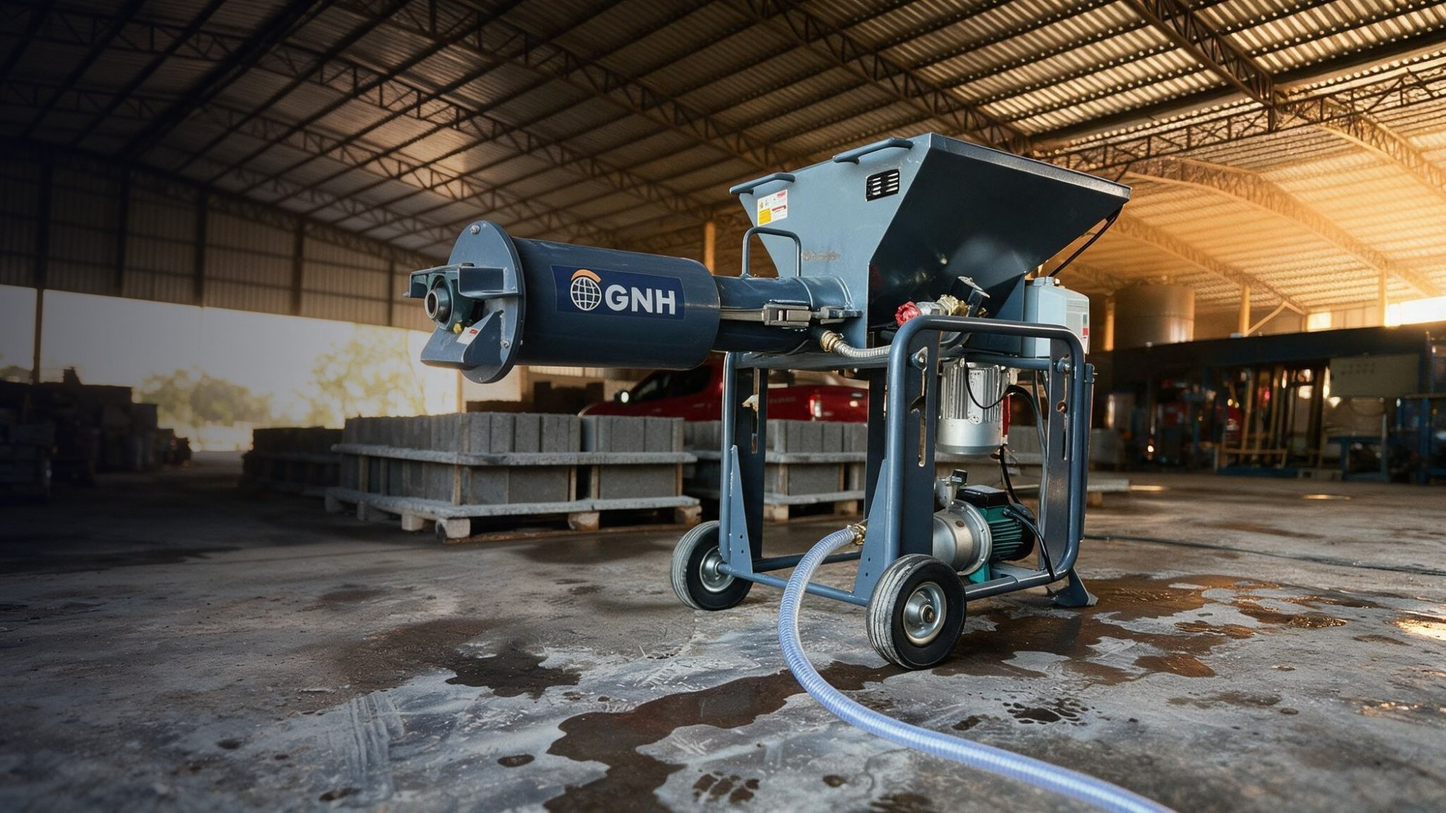
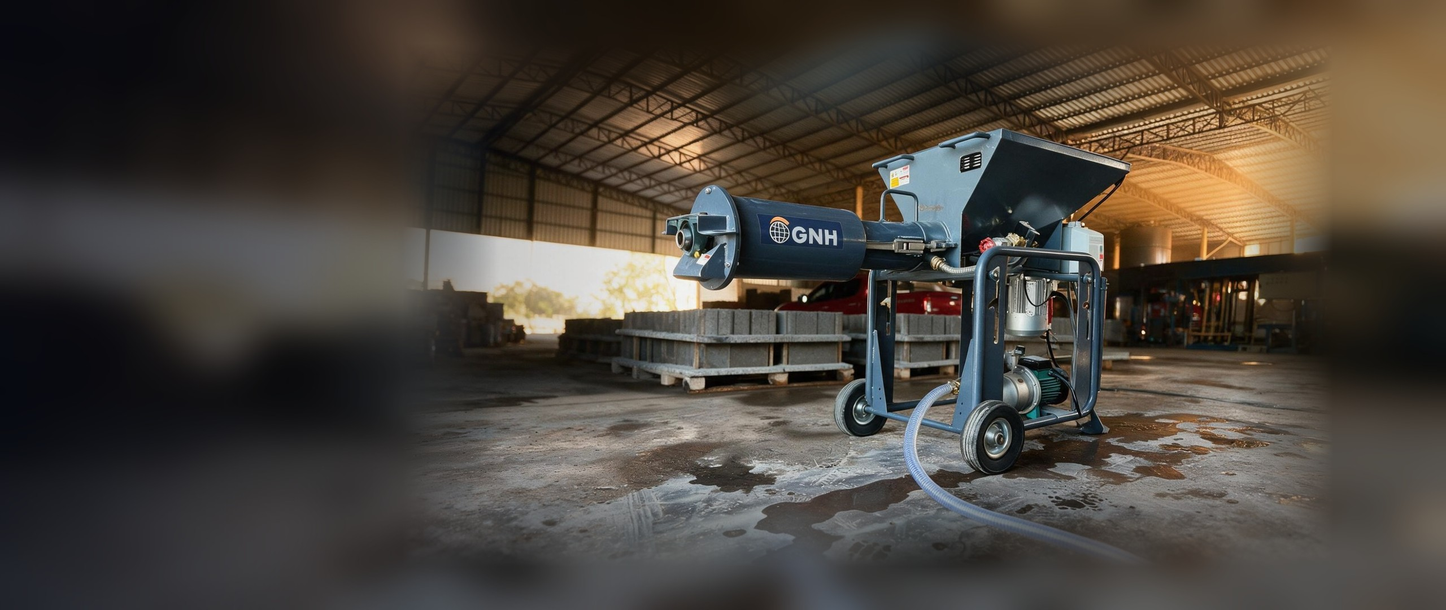
Ventas hero: corrige recorte superior en Mini Central, Mezcladora y Grúa
Reprocesa a 2560x1080 con producto completo (~86% de altura) y holgura
arriba/abajo, igual que Plataformas/Minibomba, para que el banner alto no
corte el borde superior. Grúa pasa a grua-arana-banner.jpg.

Claude-Session: https://claude.ai/code/session_01G6q8F1fihbpsjB4wc9tjuD

diff --git a/assets/nuevo/assets/ventas-D0vWhEj0.js b/assets/nuevo/assets/ventas-D0vWhEj0.js
@@ -50,7 +50,7 @@ import"./style-Cs5EtRwa.js";const c={instagram:"https://www.instagram.com/gnhimp
       <div class="border-t border-white/10 py-6 text-center text-xs text-white/40">
         © {year} Grupo GNH — Reservados todos los derechos · Paraguay · Brasil
       </div>
-    </footer>`,r.innerHTML=r.innerHTML.replace("{year}",String(new Date().getFullYear()));const a=document.createElement("a");a.href=c.whatsapp,a.target="_blank",a.rel="noopener",a.setAttribute("aria-label","WhatsApp"),a.className="wa-float",a.innerHTML=I,document.body.appendChild(a)}const T='<svg viewBox="0 0 24 24" fill="currentColor"><path d="M12 2.2c3.2 0 3.6 0 4.9.07 1.17.05 1.8.25 2.23.41.56.22.96.48 1.38.9.42.42.68.82.9 1.38.16.42.36 1.06.41 2.23.06 1.27.07 1.65.07 4.85s0 3.58-.07 4.85c-.05 1.17-.25 1.8-.41 2.23-.22.56-.48.96-.9 1.38-.42.42-.82.68-1.38.9-.42.16-1.06.36-2.23.41-1.27.06-1.65.07-4.85.07s-3.58 0-4.85-.07c-1.17-.05-1.8-.25-2.23-.41a3.7 3.7 0 0 1-1.38-.9 3.7 3.7 0 0 1-.9-1.38c-.16-.42-.36-1.06-.41-2.23C2.2 15.58 2.2 15.2 2.2 12s0-3.58.07-4.85c.05-1.17.25-1.8.41-2.23.22-.56.48-.96.9-1.38.42-.42.82-.68 1.38-.9.42-.16 1.06-.36 2.23-.41C8.42 2.2 8.8 2.2 12 2.2m0 1.8c-3.15 0-3.5 0-4.7.07-.9.04-1.4.2-1.72.32-.43.17-.74.37-1.06.7-.32.32-.52.63-.7 1.06-.12.32-.28.82-.32 1.72C3.2 8.5 3.2 8.85 3.2 12s0 3.5.07 4.7c.04.9.2 1.4.32 1.72.17.43.37.74.7 1.06.32.32.63.52 1.06.7.32.12.82.28 1.72.32 1.2.06 1.55.07 4.7.07s3.5 0 4.7-.07c.9-.04 1.4-.2 1.72-.32.43-.17.74-.37 1.06-.7.32-.32.52-.63.7-1.06.12-.32.28-.82.32-1.72.06-1.2.07-1.55.07-4.7s0-3.5-.07-4.7c-.04-.9-.2-1.4-.32-1.72a2.9 2.9 0 0 0-.7-1.06 2.9 2.9 0 0 0-1.06-.7c-.32-.12-.82-.28-1.72-.32C15.5 4 15.15 4 12 4m0 3.06A4.94 4.94 0 1 1 12 16.94 4.94 4.94 0 0 1 12 7.06m0 1.8a3.14 3.14 0 1 0 0 6.28 3.14 3.14 0 0 0 0-6.28m5.14-.9a1.15 1.15 0 1 1 0 2.3 1.15 1.15 0 0 1 0-2.3"/></svg>',H='<svg viewBox="0 0 24 24" fill="currentColor"><path d="M14 8h3V4h-3a4.5 4.5 0 0 0-4.5 4.5V11H7v4h2.5v7h4v-7H17l.7-4h-4.2V8.8A.8.8 0 0 1 14 8z"/></svg>',z='<svg viewBox="0 0 24 24" fill="currentColor"><path d="M16.5 3c.3 2 1.6 3.6 3.5 3.9v2.4c-1.3.1-2.6-.3-3.7-1v5.9a5.6 5.6 0 1 1-5.6-5.6c.3 0 .5 0 .8.05v2.5a3.1 3.1 0 1 0 2.2 3V3z"/></svg>',I='<svg viewBox="0 0 24 24" fill="#fff"><path d="M12 2a10 10 0 0 0-8.6 15.1L2 22l5-1.3A10 10 0 1 0 12 2zm5 13.7c-.2.6-1.2 1.2-1.7 1.2-.4.1-1 .1-1.6-.1a13 13 0 0 1-5.9-5.2c-.7-1.1-1.1-2.4-.6-3.1.2-.4.6-.6 1-.6h.7c.2 0 .5-.1.7.5l1 2.3c.1.2 0 .4-.1.6l-.5.7c-.2.2-.3.4-.1.7a9.6 9.6 0 0 0 3.6 3.2c.3.1.5.1.7-.1l.8-1c.2-.3.4-.2.7-.1l2.2 1c.2.1.4.2.4.4 0 .1 0 .8-.3 1.6z"/></svg>',E="595985311031",L=e=>`https://wa.me/${E}?text=${encodeURIComponent(e)}`,v=[{id:"equipos",title:"Equipos",icon:"gear",blurb:"Reglas láser, bombas de concreto, allanadoras, grúas, generadores y más.",groups:[{title:"Construcción",products:[{name:"Regla Láser Vibratoria WS940",img:"../img/prod/ws940.png",note:"Nivelación láser de pisos de concreto de alta precisión."},{name:"Bomba Transportadora de Concreto",img:"../img/prod/bomba-cemento.png",note:"Bombeo y transporte de concreto con caudal estable y operación continua."},{name:"Allanadora de Concreto 1 m",img:"../img/prod/allanadora.png",note:"Alisado y pulido de pisos de concreto. Ancho de trabajo de 1 metro."},{name:"Cortadora de Piso",img:"../img/prod/cortadora.png",note:"Corte de juntas en concreto y asfalto con disco diamantado."},{name:"Máquina de Marcado Vial",img:"../img/prod/marcado.png",note:"Marcación de pavimentos y viales con pintura de alto rendimiento."},{name:"Central de Concreto JBTS20",img:"../img/prod/central-concreto.png",note:"Mezcladora y bomba de concreto sobre remolque. Equipada con motor Cummins, para producción y bombeo continuo en obra."}]},{title:"Movimentación",products:[{name:"Grúa Araña",brand:"GNH",img:"../img/prod/grua-arana.png",note:"Grúas araña de orugas de 1,5 t a 70 t de capacidad. Control remoto e indicador de par incluidos. Brazo extensor y cesto opcionales."},{name:"Mini Excavadora HT15",img:"../img/prod/excavadora.png",note:"Miniexcavadora de orugas con motor Kubota. Balanceo lateral del brazo, cabina y aire acondicionado opcionales."},{name:"Camión Volquete de Orugas",img:"../img/prod/volquete.png",note:"Dumper de orugas para transporte de materiales en obra. Capacidades de 0,5 t y 1,2 t; versión giratoria con motor diésel."},{name:"Carretilla Elevadora Diésel 3,5 t",img:"../img/prod/carretilla.png",note:"Montacargas diésel, capacidad 3,5 t y elevación de 3 m. Dispositivo rotatorio opcional."},{name:"Montacargas Todoterreno 3,5 t",img:"../img/prod/montacargas.png",note:"Montacargas todoterreno 3,5 t para superficies difíciles."},{name:"Apilador Eléctrico",img:"../img/prod/apilador.png",note:"Apiladores eléctricos — capacidades de 1 a 2 t y alturas de 1,6 a 4,5 m."},{name:"Elevador de Dos Columnas",img:"../img/prod/elevador.png",note:"Plataforma de elevación de personal de dos mástiles, uso industrial."}]},{title:"Industria",products:[{name:"Ensayo a Compresión HST-YES2000",img:"../img/prod/compresion.png",note:"Prensa digital para ensayos de resistencia a la compresión. Control de calidad."},{name:"Motor Diésel 4HZD",img:"../img/prod/motor.png",note:"Motor diésel industrial de alto desempeño para generación y usos estacionarios."},{name:"Grupo Electrógeno Diésel 38 kVA",img:"../img/prod/generador.png",note:"Generador trifásico 400 V / 50 Hz, cabina súper silenciosa."}]}]},{id:"aditivos",title:"Aditivos",icon:"flask",blurb:"Aditivos y soluciones químicas para construcción.",products:[]},{id:"fletes",title:"Fletes",icon:"truck",blurb:"Transporte y fletes de carga con cobertura regional.",products:[{name:"Transporte de Cargas",brand:"FletePar",note:"Fletes con cobertura regional y trazabilidad total, del origen al destino."}]},{id:"morteros",title:"Morteros",icon:"grid",blurb:"Revoques y morteros industrializados.",products:[]},{id:"cementos",title:"Cementos",icon:"layers",blurb:"Cemento de alto desempeño para toda obra.",products:[]}],B={hook:'<path d="M5 21V5.5L11 3v18M5 21h6M11 7h8.5M19.5 7v4.5"/><path d="M21.5 14a2.2 2.2 0 1 1-4.4 0"/>',flask:'<path d="M10 3h4M11 3v5.2L5.6 17.5A2 2 0 0 0 7.4 21h9.2a2 2 0 0 0 1.8-3.5L13 8.2V3"/><path d="M8.2 15h7.6"/>',truck:'<path d="M3 7h11v9H3zM14 10h4l3 3v3h-7"/><circle cx="7" cy="17.5" r="1.8"/><circle cx="17" cy="17.5" r="1.8"/>',layers:'<path d="M12 3l9 5-9 5-9-5z"/><path d="M3 13.5l9 5 9-5"/>',grid:'<rect x="4" y="4" width="7" height="7" rx="1"/><rect x="13" y="4" width="7" height="7" rx="1"/><rect x="4" y="13" width="7" height="7" rx="1"/><rect x="13" y="13" width="7" height="7" rx="1"/>',arrow:'<path d="M4 12h15M13 6l6 6-6 6"/>',doc:'<path d="M14 3H7a2 2 0 0 0-2 2v14a2 2 0 0 0 2 2h10a2 2 0 0 0 2-2V8z"/><path d="M14 3v5h5M9 13h6M9 17h6"/>',gear:'<circle cx="12" cy="12" r="3.2"/><path d="M12 2.5v3M12 18.5v3M2.5 12h3M18.5 12h3M5 5l2.1 2.1M16.9 16.9L19 19M19 5l-2.1 2.1M7.1 16.9L5 19"/>',chevL:'<path d="M15 5l-7 7 7 7"/>',chevR:'<path d="M9 5l7 7-7 7"/>'},l=(e,r="")=>`<svg viewBox="0 0 24 24" fill="none" stroke="currentColor" stroke-width="1.7" stroke-linecap="round" stroke-linejoin="round" class="${r}">${B[e]??""}</svg>`,p=[{name:"Plataformas",tag:"Plataforma electro-hidráulica de elevación de personal para trabajos en altura.",img:"../img/prod/plataformas.jpg",cat:"equipos",bleed:!0},{name:"Grúas Araña",tag:"Grúas araña de orugas de 1,5 t a 70 t. Compactas, potentes y de fácil acceso.",img:"../img/prod/grua-arana.png",cat:"equipos",bleed:!0},{name:"Mini Central de Concreto",tag:"Mezcla y bombeo de concreto en un solo equipo, con motor Cummins.",img:"../img/prod/mini-central.jpg",cat:"equipos",bleed:!0},{name:"Minibomba Eléctrica",tag:"Bomba eléctrica compacta para el transporte de concreto en obra.",img:"../img/prod/minibomba.jpg",cat:"equipos",bleed:!0},{name:"Mezcladora de Mortero",tag:"Ideal para la aplicación de AC-I y AC-III.",img:"../img/prod/mezcladora-mortero.jpg",cat:"equipos",bleed:!0}],k='<svg viewBox="0 0 24 24" fill="currentColor"><rect x="7" y="6" width="3.4" height="12" rx="1"/><rect x="13.6" y="6" width="3.4" height="12" rx="1"/></svg>',P='<svg viewBox="0 0 24 24" fill="currentColor"><path d="M8 5.5v13l11-6.5z"/></svg>';function j(){const e=document.getElementById("hero-carousel");if(!e||!p.length)return;const r=5200;e.className="v-showcase",e.style.setProperty("--vh-dur",r+"ms"),e.innerHTML=`
+    </footer>`,r.innerHTML=r.innerHTML.replace("{year}",String(new Date().getFullYear()));const a=document.createElement("a");a.href=c.whatsapp,a.target="_blank",a.rel="noopener",a.setAttribute("aria-label","WhatsApp"),a.className="wa-float",a.innerHTML=I,document.body.appendChild(a)}const T='<svg viewBox="0 0 24 24" fill="currentColor"><path d="M12 2.2c3.2 0 3.6 0 4.9.07 1.17.05 1.8.25 2.23.41.56.22.96.48 1.38.9.42.42.68.82.9 1.38.16.42.36 1.06.41 2.23.06 1.27.07 1.65.07 4.85s0 3.58-.07 4.85c-.05 1.17-.25 1.8-.41 2.23-.22.56-.48.96-.9 1.38-.42.42-.82.68-1.38.9-.42.16-1.06.36-2.23.41-1.27.06-1.65.07-4.85.07s-3.58 0-4.85-.07c-1.17-.05-1.8-.25-2.23-.41a3.7 3.7 0 0 1-1.38-.9 3.7 3.7 0 0 1-.9-1.38c-.16-.42-.36-1.06-.41-2.23C2.2 15.58 2.2 15.2 2.2 12s0-3.58.07-4.85c.05-1.17.25-1.8.41-2.23.22-.56.48-.96.9-1.38.42-.42.82-.68 1.38-.9.42-.16 1.06-.36 2.23-.41C8.42 2.2 8.8 2.2 12 2.2m0 1.8c-3.15 0-3.5 0-4.7.07-.9.04-1.4.2-1.72.32-.43.17-.74.37-1.06.7-.32.32-.52.63-.7 1.06-.12.32-.28.82-.32 1.72C3.2 8.5 3.2 8.85 3.2 12s0 3.5.07 4.7c.04.9.2 1.4.32 1.72.17.43.37.74.7 1.06.32.32.63.52 1.06.7.32.12.82.28 1.72.32 1.2.06 1.55.07 4.7.07s3.5 0 4.7-.07c.9-.04 1.4-.2 1.72-.32.43-.17.74-.37 1.06-.7.32-.32.52-.63.7-1.06.12-.32.28-.82.32-1.72.06-1.2.07-1.55.07-4.7s0-3.5-.07-4.7c-.04-.9-.2-1.4-.32-1.72a2.9 2.9 0 0 0-.7-1.06 2.9 2.9 0 0 0-1.06-.7c-.32-.12-.82-.28-1.72-.32C15.5 4 15.15 4 12 4m0 3.06A4.94 4.94 0 1 1 12 16.94 4.94 4.94 0 0 1 12 7.06m0 1.8a3.14 3.14 0 1 0 0 6.28 3.14 3.14 0 0 0 0-6.28m5.14-.9a1.15 1.15 0 1 1 0 2.3 1.15 1.15 0 0 1 0-2.3"/></svg>',H='<svg viewBox="0 0 24 24" fill="currentColor"><path d="M14 8h3V4h-3a4.5 4.5 0 0 0-4.5 4.5V11H7v4h2.5v7h4v-7H17l.7-4h-4.2V8.8A.8.8 0 0 1 14 8z"/></svg>',z='<svg viewBox="0 0 24 24" fill="currentColor"><path d="M16.5 3c.3 2 1.6 3.6 3.5 3.9v2.4c-1.3.1-2.6-.3-3.7-1v5.9a5.6 5.6 0 1 1-5.6-5.6c.3 0 .5 0 .8.05v2.5a3.1 3.1 0 1 0 2.2 3V3z"/></svg>',I='<svg viewBox="0 0 24 24" fill="#fff"><path d="M12 2a10 10 0 0 0-8.6 15.1L2 22l5-1.3A10 10 0 1 0 12 2zm5 13.7c-.2.6-1.2 1.2-1.7 1.2-.4.1-1 .1-1.6-.1a13 13 0 0 1-5.9-5.2c-.7-1.1-1.1-2.4-.6-3.1.2-.4.6-.6 1-.6h.7c.2 0 .5-.1.7.5l1 2.3c.1.2 0 .4-.1.6l-.5.7c-.2.2-.3.4-.1.7a9.6 9.6 0 0 0 3.6 3.2c.3.1.5.1.7-.1l.8-1c.2-.3.4-.2.7-.1l2.2 1c.2.1.4.2.4.4 0 .1 0 .8-.3 1.6z"/></svg>',E="595985311031",L=e=>`https://wa.me/${E}?text=${encodeURIComponent(e)}`,v=[{id:"equipos",title:"Equipos",icon:"gear",blurb:"Reglas láser, bombas de concreto, allanadoras, grúas, generadores y más.",groups:[{title:"Construcción",products:[{name:"Regla Láser Vibratoria WS940",img:"../img/prod/ws940.png",note:"Nivelación láser de pisos de concreto de alta precisión."},{name:"Bomba Transportadora de Concreto",img:"../img/prod/bomba-cemento.png",note:"Bombeo y transporte de concreto con caudal estable y operación continua."},{name:"Allanadora de Concreto 1 m",img:"../img/prod/allanadora.png",note:"Alisado y pulido de pisos de concreto. Ancho de trabajo de 1 metro."},{name:"Cortadora de Piso",img:"../img/prod/cortadora.png",note:"Corte de juntas en concreto y asfalto con disco diamantado."},{name:"Máquina de Marcado Vial",img:"../img/prod/marcado.png",note:"Marcación de pavimentos y viales con pintura de alto rendimiento."},{name:"Central de Concreto JBTS20",img:"../img/prod/central-concreto.png",note:"Mezcladora y bomba de concreto sobre remolque. Equipada con motor Cummins, para producción y bombeo continuo en obra."}]},{title:"Movimentación",products:[{name:"Grúa Araña",brand:"GNH",img:"../img/prod/grua-arana.png",note:"Grúas araña de orugas de 1,5 t a 70 t de capacidad. Control remoto e indicador de par incluidos. Brazo extensor y cesto opcionales."},{name:"Mini Excavadora HT15",img:"../img/prod/excavadora.png",note:"Miniexcavadora de orugas con motor Kubota. Balanceo lateral del brazo, cabina y aire acondicionado opcionales."},{name:"Camión Volquete de Orugas",img:"../img/prod/volquete.png",note:"Dumper de orugas para transporte de materiales en obra. Capacidades de 0,5 t y 1,2 t; versión giratoria con motor diésel."},{name:"Carretilla Elevadora Diésel 3,5 t",img:"../img/prod/carretilla.png",note:"Montacargas diésel, capacidad 3,5 t y elevación de 3 m. Dispositivo rotatorio opcional."},{name:"Montacargas Todoterreno 3,5 t",img:"../img/prod/montacargas.png",note:"Montacargas todoterreno 3,5 t para superficies difíciles."},{name:"Apilador Eléctrico",img:"../img/prod/apilador.png",note:"Apiladores eléctricos — capacidades de 1 a 2 t y alturas de 1,6 a 4,5 m."},{name:"Elevador de Dos Columnas",img:"../img/prod/elevador.png",note:"Plataforma de elevación de personal de dos mástiles, uso industrial."}]},{title:"Industria",products:[{name:"Ensayo a Compresión HST-YES2000",img:"../img/prod/compresion.png",note:"Prensa digital para ensayos de resistencia a la compresión. Control de calidad."},{name:"Motor Diésel 4HZD",img:"../img/prod/motor.png",note:"Motor diésel industrial de alto desempeño para generación y usos estacionarios."},{name:"Grupo Electrógeno Diésel 38 kVA",img:"../img/prod/generador.png",note:"Generador trifásico 400 V / 50 Hz, cabina súper silenciosa."}]}]},{id:"aditivos",title:"Aditivos",icon:"flask",blurb:"Aditivos y soluciones químicas para construcción.",products:[]},{id:"fletes",title:"Fletes",icon:"truck",blurb:"Transporte y fletes de carga con cobertura regional.",products:[{name:"Transporte de Cargas",brand:"FletePar",note:"Fletes con cobertura regional y trazabilidad total, del origen al destino."}]},{id:"morteros",title:"Morteros",icon:"grid",blurb:"Revoques y morteros industrializados.",products:[]},{id:"cementos",title:"Cementos",icon:"layers",blurb:"Cemento de alto desempeño para toda obra.",products:[]}],B={hook:'<path d="M5 21V5.5L11 3v18M5 21h6M11 7h8.5M19.5 7v4.5"/><path d="M21.5 14a2.2 2.2 0 1 1-4.4 0"/>',flask:'<path d="M10 3h4M11 3v5.2L5.6 17.5A2 2 0 0 0 7.4 21h9.2a2 2 0 0 0 1.8-3.5L13 8.2V3"/><path d="M8.2 15h7.6"/>',truck:'<path d="M3 7h11v9H3zM14 10h4l3 3v3h-7"/><circle cx="7" cy="17.5" r="1.8"/><circle cx="17" cy="17.5" r="1.8"/>',layers:'<path d="M12 3l9 5-9 5-9-5z"/><path d="M3 13.5l9 5 9-5"/>',grid:'<rect x="4" y="4" width="7" height="7" rx="1"/><rect x="13" y="4" width="7" height="7" rx="1"/><rect x="4" y="13" width="7" height="7" rx="1"/><rect x="13" y="13" width="7" height="7" rx="1"/>',arrow:'<path d="M4 12h15M13 6l6 6-6 6"/>',doc:'<path d="M14 3H7a2 2 0 0 0-2 2v14a2 2 0 0 0 2 2h10a2 2 0 0 0 2-2V8z"/><path d="M14 3v5h5M9 13h6M9 17h6"/>',gear:'<circle cx="12" cy="12" r="3.2"/><path d="M12 2.5v3M12 18.5v3M2.5 12h3M18.5 12h3M5 5l2.1 2.1M16.9 16.9L19 19M19 5l-2.1 2.1M7.1 16.9L5 19"/>',chevL:'<path d="M15 5l-7 7 7 7"/>',chevR:'<path d="M9 5l7 7-7 7"/>'},l=(e,r="")=>`<svg viewBox="0 0 24 24" fill="none" stroke="currentColor" stroke-width="1.7" stroke-linecap="round" stroke-linejoin="round" class="${r}">${B[e]??""}</svg>`,p=[{name:"Plataformas",tag:"Plataforma electro-hidráulica de elevación de personal para trabajos en altura.",img:"../img/prod/plataformas.jpg",cat:"equipos",bleed:!0},{name:"Grúas Araña",tag:"Grúas araña de orugas de 1,5 t a 70 t. Compactas, potentes y de fácil acceso.",img:"../img/prod/grua-arana-banner.jpg",cat:"equipos",bleed:!0},{name:"Mini Central de Concreto",tag:"Mezcla y bombeo de concreto en un solo equipo, con motor Cummins.",img:"../img/prod/mini-central.jpg",cat:"equipos",bleed:!0},{name:"Minibomba Eléctrica",tag:"Bomba eléctrica compacta para el transporte de concreto en obra.",img:"../img/prod/minibomba.jpg",cat:"equipos",bleed:!0},{name:"Mezcladora de Mortero",tag:"Ideal para la aplicación de AC-I y AC-III.",img:"../img/prod/mezcladora-mortero.jpg",cat:"equipos",bleed:!0}],k='<svg viewBox="0 0 24 24" fill="currentColor"><rect x="7" y="6" width="3.4" height="12" rx="1"/><rect x="13.6" y="6" width="3.4" height="12" rx="1"/></svg>',P='<svg viewBox="0 0 24 24" fill="currentColor"><path d="M8 5.5v13l11-6.5z"/></svg>';function j(){const e=document.getElementById("hero-carousel");if(!e||!p.length)return;const r=5200;e.className="v-showcase",e.style.setProperty("--vh-dur",r+"ms"),e.innerHTML=`
     <div class="vh-track">
       ${p.map((t,n)=>`
         <article class="vh-slide${n===0?" is-active":""}${t.bleed?" is-bleed":""}" data-i="${n}">

diff --git a/gnh-hero/src/ventas.ts b/gnh-hero/src/ventas.ts
@@ -108,7 +108,7 @@ const icon = (k: string, cls = '') =>
 interface Featured { name: string; tag: string; img: string; cat: string; bleed?: boolean }
 const FEATURED: Featured[] = [
   { name: 'Plataformas', tag: 'Plataforma electro-hidráulica de elevación de personal para trabajos en altura.', img: '../img/prod/plataformas.jpg', cat: 'equipos', bleed: true },
-  { name: 'Grúas Araña', tag: 'Grúas araña de orugas de 1,5 t a 70 t. Compactas, potentes y de fácil acceso.', img: '../img/prod/grua-arana.png', cat: 'equipos', bleed: true },
+  { name: 'Grúas Araña', tag: 'Grúas araña de orugas de 1,5 t a 70 t. Compactas, potentes y de fácil acceso.', img: '../img/prod/grua-arana-banner.jpg', cat: 'equipos', bleed: true },
   { name: 'Mini Central de Concreto', tag: 'Mezcla y bombeo de concreto en un solo equipo, con motor Cummins.', img: '../img/prod/mini-central.jpg', cat: 'equipos', bleed: true },
   { name: 'Minibomba Eléctrica', tag: 'Bomba eléctrica compacta para el transporte de concreto en obra.', img: '../img/prod/minibomba.jpg', cat: 'equipos', bleed: true },
   { name: 'Mezcladora de Mortero', tag: 'Ideal para la aplicación de AC-I y AC-III.', img: '../img/prod/mezcladora-mortero.jpg', cat: 'equipos', bleed: true },

diff --git a/assets/nuevo/ventas/index.html b/assets/nuevo/ventas/index.html
@@ -6,7 +6,7 @@
   <title>GNH Ventas — Equipos, Aditivos, Fletes, Cemento y Morteros | Paraguay</title>
   <meta name="description" content="Canal B2B de GNH: equipos, aditivos, fletes, cemento y morteros. Fichas técnicas, catálogos y cotización directa por WhatsApp. Paraguay y Brasil." />
   <link href="https://api.fontshare.com/v2/css?f[]=satoshi@400,500,700,900&f[]=general-sans@400,500,600&display=swap" rel="stylesheet">
-  <script type="module" crossorigin src="../assets/ventas-BDGOt2UZ.js"></script>
+  <script type="module" crossorigin src="../assets/ventas-D0vWhEj0.js"></script>
   <link rel="modulepreload" crossorigin href="../assets/style-Cs5EtRwa.js">
   <link rel="stylesheet" crossorigin href="../assets/style-C8FyVbBI.css">
   <link rel="stylesheet" crossorigin href="../assets/ventas-D9K1s9-8.css">
